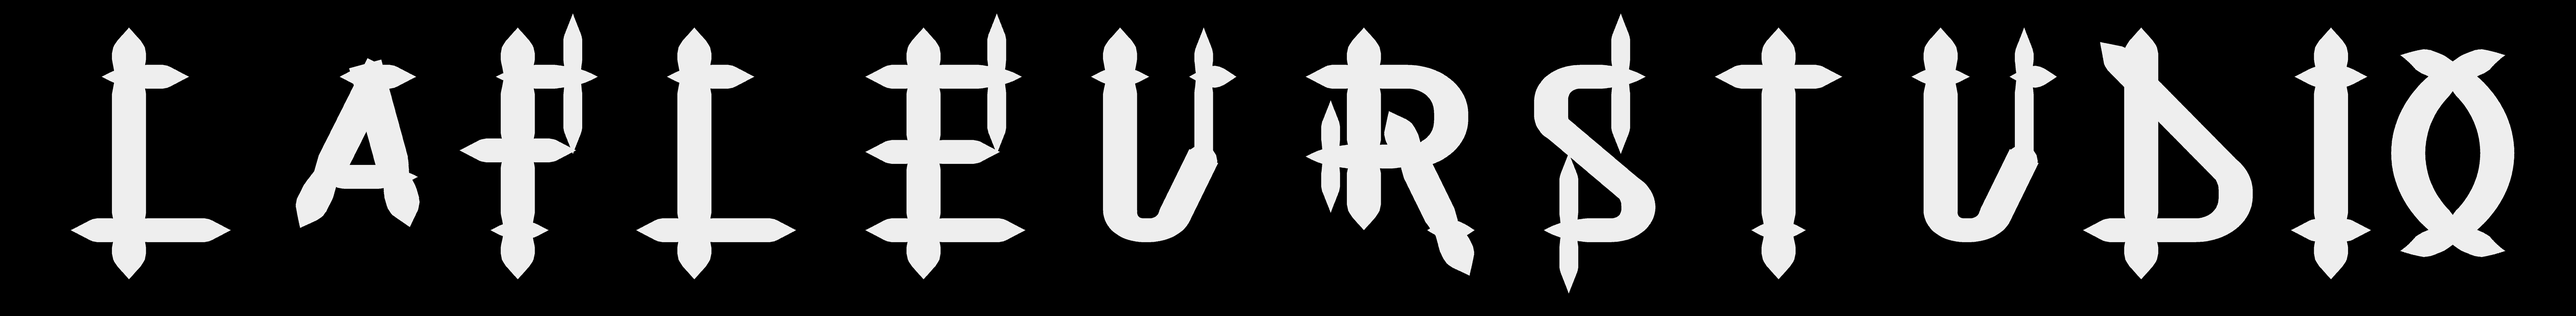
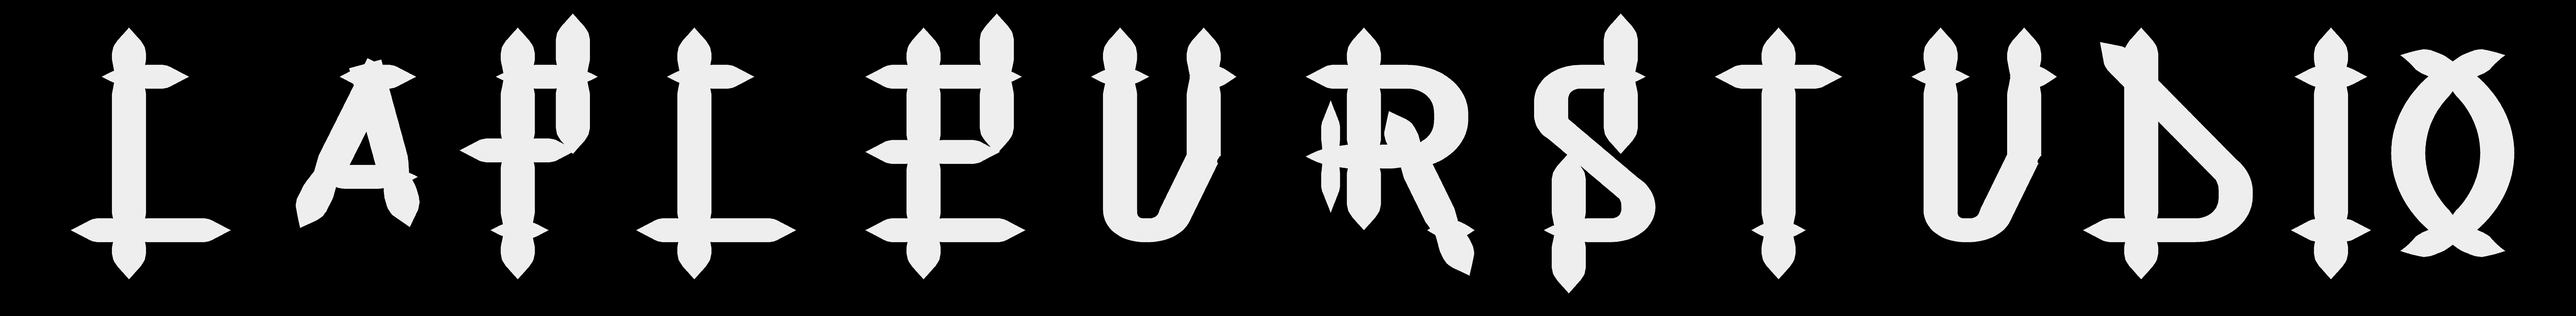
Fûstard 132 : u des graisses 700 et plus, petites croix bien repérées dans la 900

diff --git a/fustard-132/fustard.py b/fustard-132/fustard.py
@@ -80,7 +80,7 @@ def build(ov=70.0):
     xl = 260 + 480 / T67
     G['R'] = [S((0, H + ov), (0, 0)),
               S((-ov, H), (480, H, 240), (480, 480, 240), (-ov, 480)),
-              S((-ov + 30 * f, 480 + 80 * f), (-ov + 30 * f, 480 - 80 * f)),
+              dict(S((-ov + 30 * f, 480 + 80 * f), (-ov + 30 * f, 480 - 80 * f)), detail=True),
               S((260 - ov * C67, 480 + ov * S67), (xl + ov * C67, -ov * S67)),
               S((xl - 110, 0), (xl + 150, 0))]
     G['S'] = [S((560, H), (40, H, 160), (40, 700, 120), (520, 220, 170), (520, 0, 150), (0, 0)),
@@ -99,9 +99,9 @@ def build(ov=70.0):
 
     # ---- le reste de l'alphabet ----
     def croix_haut(x, y):   # petite croix verticale en bout de barre (E, F, S)
-        return S((x, y + 90 * f), (x, y - 110 * f))
+        return dict(S((x, y + 90 * f), (x, y - 110 * f)), detail=True)
     def croix_bas(x, y):
-        return S((x, y + 110 * f), (x, y - 90 * f))
+        return dict(S((x, y + 110 * f), (x, y - 90 * f)), detail=True)
     def diag(x0, y0, x1, y1, a=True, b=True):   # trait qui dépasse de ov à ses bouts
         u = np.array([x1 - x0, y1 - y0], float); u /= np.linalg.norm(u)
         p = np.array([x0, y0]) - (u * ov if a else 0)
@@ -152,7 +152,7 @@ def build(ov=70.0):
     # P : fût, panse du R, pied
     G['P'] = [S((0, H + ov), (0, -ov)),
               S((-ov, H), (480, H, 240), (480, 440, 240), (-ov, 440)),
-              S((-ov + 30 * f, 440 + 80 * f), (-ov + 30 * f, 440 - 80 * f)),
+              dict(S((-ov + 30 * f, 440 + 80 * f), (-ov + 30 * f, 440 - 80 * f)), detail=True),
               S((-150, 0), (170, 0))]
     # H : deux fûts, barre, empattements en croix
     G['H'] = [S((0, H + ov), (0, -ov)), S((540, H + ov), (540, -ov)),
@@ -185,7 +185,7 @@ def build(ov=70.0):
     queue = [np.array([cxq + aq + rq * math.cos(t), cyq + rq * math.sin(t)]) for t in np.linspace(t0, t1, 120)]
     tc = t1 - 30 * f / rq
     xc, yc_ = cxq + aq + rq * math.cos(tc), cyq + rq * math.sin(tc)
-    G['Q'] = [dict(p=queue, caps=['tip', 'tip']), Ov[1], S((xc, yc_ + 55 * f), (xc, yc_ - 45 * f))]   # croix moitié plus courte
+    G['Q'] = [dict(p=queue, caps=['tip', 'tip']), Ov[1], dict(S((xc, yc_ + 55 * f), (xc, yc_ - 45 * f)), detail=True)]   # croix moitié plus courte
     # Y : deux bras à 67,5° qui se croisent, fût, pied
     yc = 470
     by = (H - yc) / T67
@@ -242,9 +242,9 @@ def build_chiffres_maj(ov):
     """Chiffres majuscules : coins vifs, chaque jonction en croix, comme les capitales."""
     f = ov / 70.0
     def croix_haut(x, y):
-        return S((x, y + 90 * f), (x, y - 110 * f))
+        return dict(S((x, y + 90 * f), (x, y - 110 * f)), detail=True)
     def croix_bas(x, y):
-        return S((x, y + 110 * f), (x, y - 90 * f))
+        return dict(S((x, y + 110 * f), (x, y - 90 * f)), detail=True)
     def diag(x0, y0, x1, y1, a=True, b=True):
         u = np.array([x1 - x0, y1 - y0], float); u /= np.linalg.norm(u)
         p = np.array([x0, y0]) - (u * ov if a else 0)
@@ -287,9 +287,9 @@ def build_lc(ov):
     f = ov / 70.0
     X, A, D = XH, ASC, DESC
     def croix_haut(x, y):
-        return S((x, y + 90 * f), (x, y - 110 * f))
+        return dict(S((x, y + 90 * f), (x, y - 110 * f)), detail=True)
     def croix_bas(x, y):
-        return S((x, y + 110 * f), (x, y - 90 * f))
+        return dict(S((x, y + 110 * f), (x, y - 90 * f)), detail=True)
     def diag(x0, y0, x1, y1, a=True, b=True):
         u = np.array([x1 - x0, y1 - y0], float); u /= np.linalg.norm(u)
         p = np.array([x0, y0]) - (u * ov if a else 0)
@@ -373,7 +373,7 @@ def build_ponct(ov):
     """Ponctuation. Les points sont des croix ; guillemets en chevrons croisés à la pointe."""
     f = ov / 70.0
     def croix_haut(x, y):
-        return S((x, y + 90 * f), (x, y - 110 * f))
+        return dict(S((x, y + 90 * f), (x, y - 110 * f)), detail=True)
     def point(x, y, s=80):
         return [S((x, y + s), (x, y - s)), S((x - s, y), (x + s, y))]
     def virgule(x, y, s=80):

diff --git a/fustard-132/triche.py b/fustard-132/triche.py
@@ -5,7 +5,7 @@
 # 4. pointes plus courtes, proportionnées à l'épaisseur
 # 5. lettres élargies pour garder les contreformes ouvertes
 # 6. croisement en biais (< 40°) : le trait s'arrête dans l'autre, sans dépasser
-# 7. U à partir de 700 : le fût s'arrête sur la diagonale
+# 7. à partir de 700 : U, le fût s'arrête sur la diagonale ; u, fond plat qui traverse le fût
 import sys, os, math
 _ICI = os.path.dirname(os.path.abspath(__file__))
 sys.path[:0] = [_ICI, os.path.join(_ICI, '..', 'jalousia')]
@@ -59,10 +59,7 @@ def croisements(strokes):
     return pts
 
 def est_detail(st, ov):
-    P = np.array(st['p'])
-    L = np.linalg.norm(P[-1] - P[0])
-    d = P[-1] - P[0]
-    return len(P) == 2 and abs(d[0]) < 1 and L < 1000
+    return bool(st.get('detail'))       # les petites croix, marquées dans le dessin
 
 def contour_trait(st, X, R):
     """Morceaux de polygone d'un trait à épaisseur variable."""
@@ -153,13 +150,21 @@ def U_gras(ov):
     fut = S((xr, H + ov), (xr, yb)); fut['caps'][1] = 'B'
     return [S((-60, H), (260, H)), S((xr - 80, H), (xr + 180, H)), panse, fut]
 
+def u_gras(ov):
+    """7. u des graisses 700 et plus : fond plat qui traverse le fût, croix en bas à droite."""
+    S = techno.S; X = techno.XH; xr = 440.0
+    return [S((-60, X), (200, X)), S((xr - 80, X), (xr + 140, X)),
+            S((100, X + ov), (100, 0, 110), (xr + ov, 0)), S((xr, X + ov), (xr, -ov))]
+
 def glyphes(R):
     G = techno.build(R['ov'])
+    G.update(techno.build_lc(R['ov'] * techno.XH / 1000.0))   # minuscules, croisements en proportion
     if R.get('poids', 900) >= 700:
         G['U'] = U_gras(R['ov'])
+        G['u'] = u_gras(R['ov'] * techno.XH / 1000.0)
     out = {}
     for ch, strokes in G.items():
-        sts = [dict(p=[np.array([x * R['sx'], y]) for x, y in st['p']], caps=list(st['caps'])) for st in strokes]
+        sts = [dict(p=[np.array([x * R['sx'], y]) for x, y in st['p']], caps=list(st['caps']), detail=st.get('detail', False)) for st in strokes]
         out[ch] = couper_biais(sts, R['ov'])
     return out
 

diff --git a/fustard-132/README.md b/fustard-132/README.md
@@ -25,11 +25,11 @@ Même squelette que la Hairline, trait de 220 (22 % des capitales), croisements 
 
 1. **Contraste** : horizontales à 70 % de l'épaisseur des verticales, diagonales entre les deux.
 2. **Pièges à encre** : aux croisements francs (plus de 45°), les traits s'amincissent à 80 % sur une demi-épaisseur.
-3. **Détails** : petites croix à 55 %.
+3. **Détails** : petites croix (E, F, S, Z, R, P, J, Q…) à 55 %.
 4. **Pointes** : longues de 1,5 demi-épaisseur (fers de lance).
 5. **Largeur** : lettres élargies de 18 %.
 6. **Croisements en biais** (moins de 40°) : le trait s'arrête dans l'autre, sans dépasser.
-7. **U à partir de 700** : le fût s'arrête sur la diagonale.
+7. **À partir de 700** : U, le fût s'arrête sur la diagonale ; u, fond plat qui traverse le fût (croix en bas à droite).
 
 `python3 triche.py fustard-132-900.png` → `fustard-132-900.png`
 
